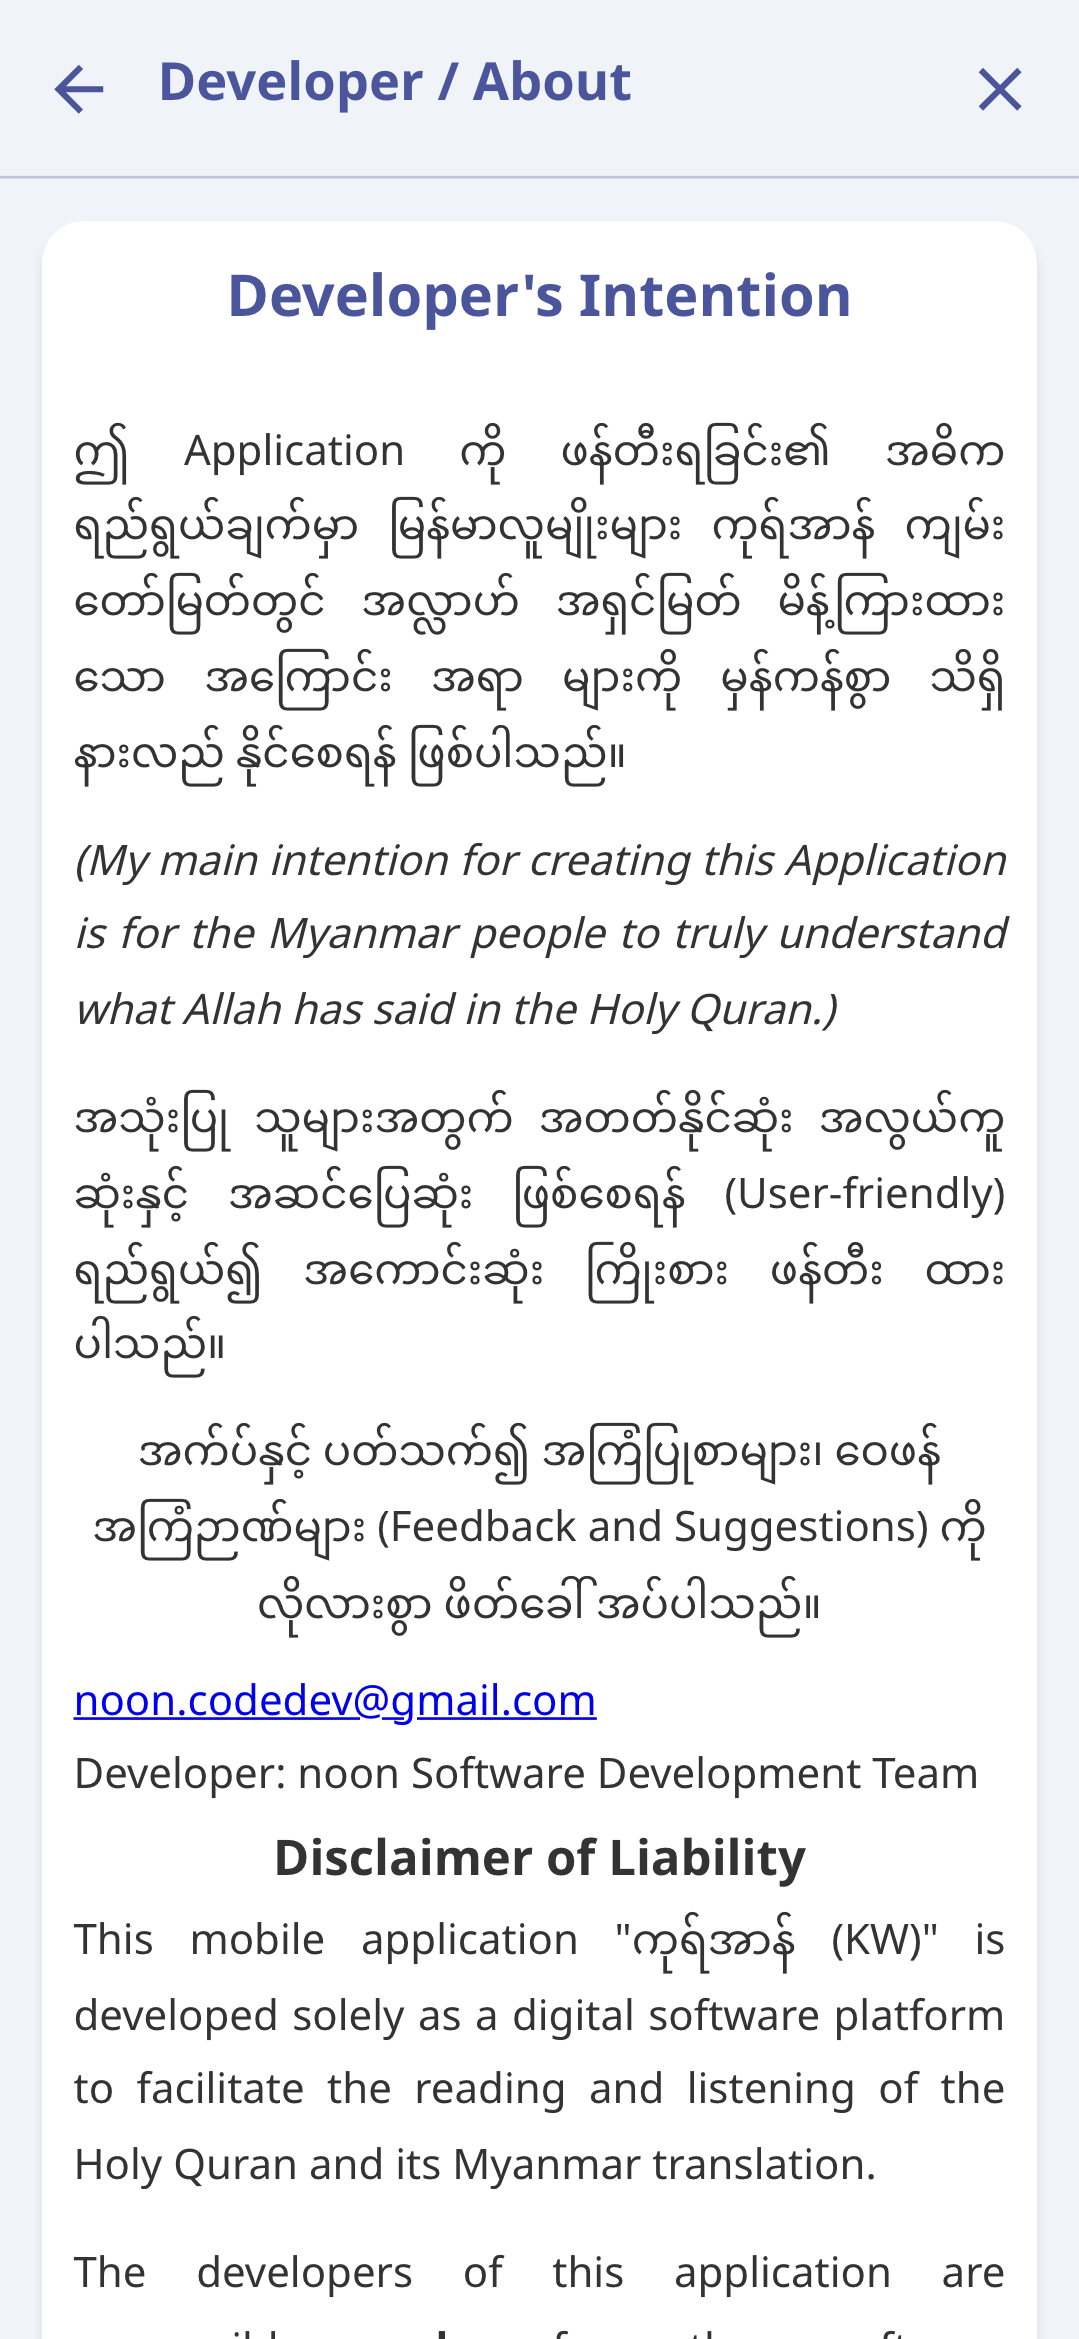
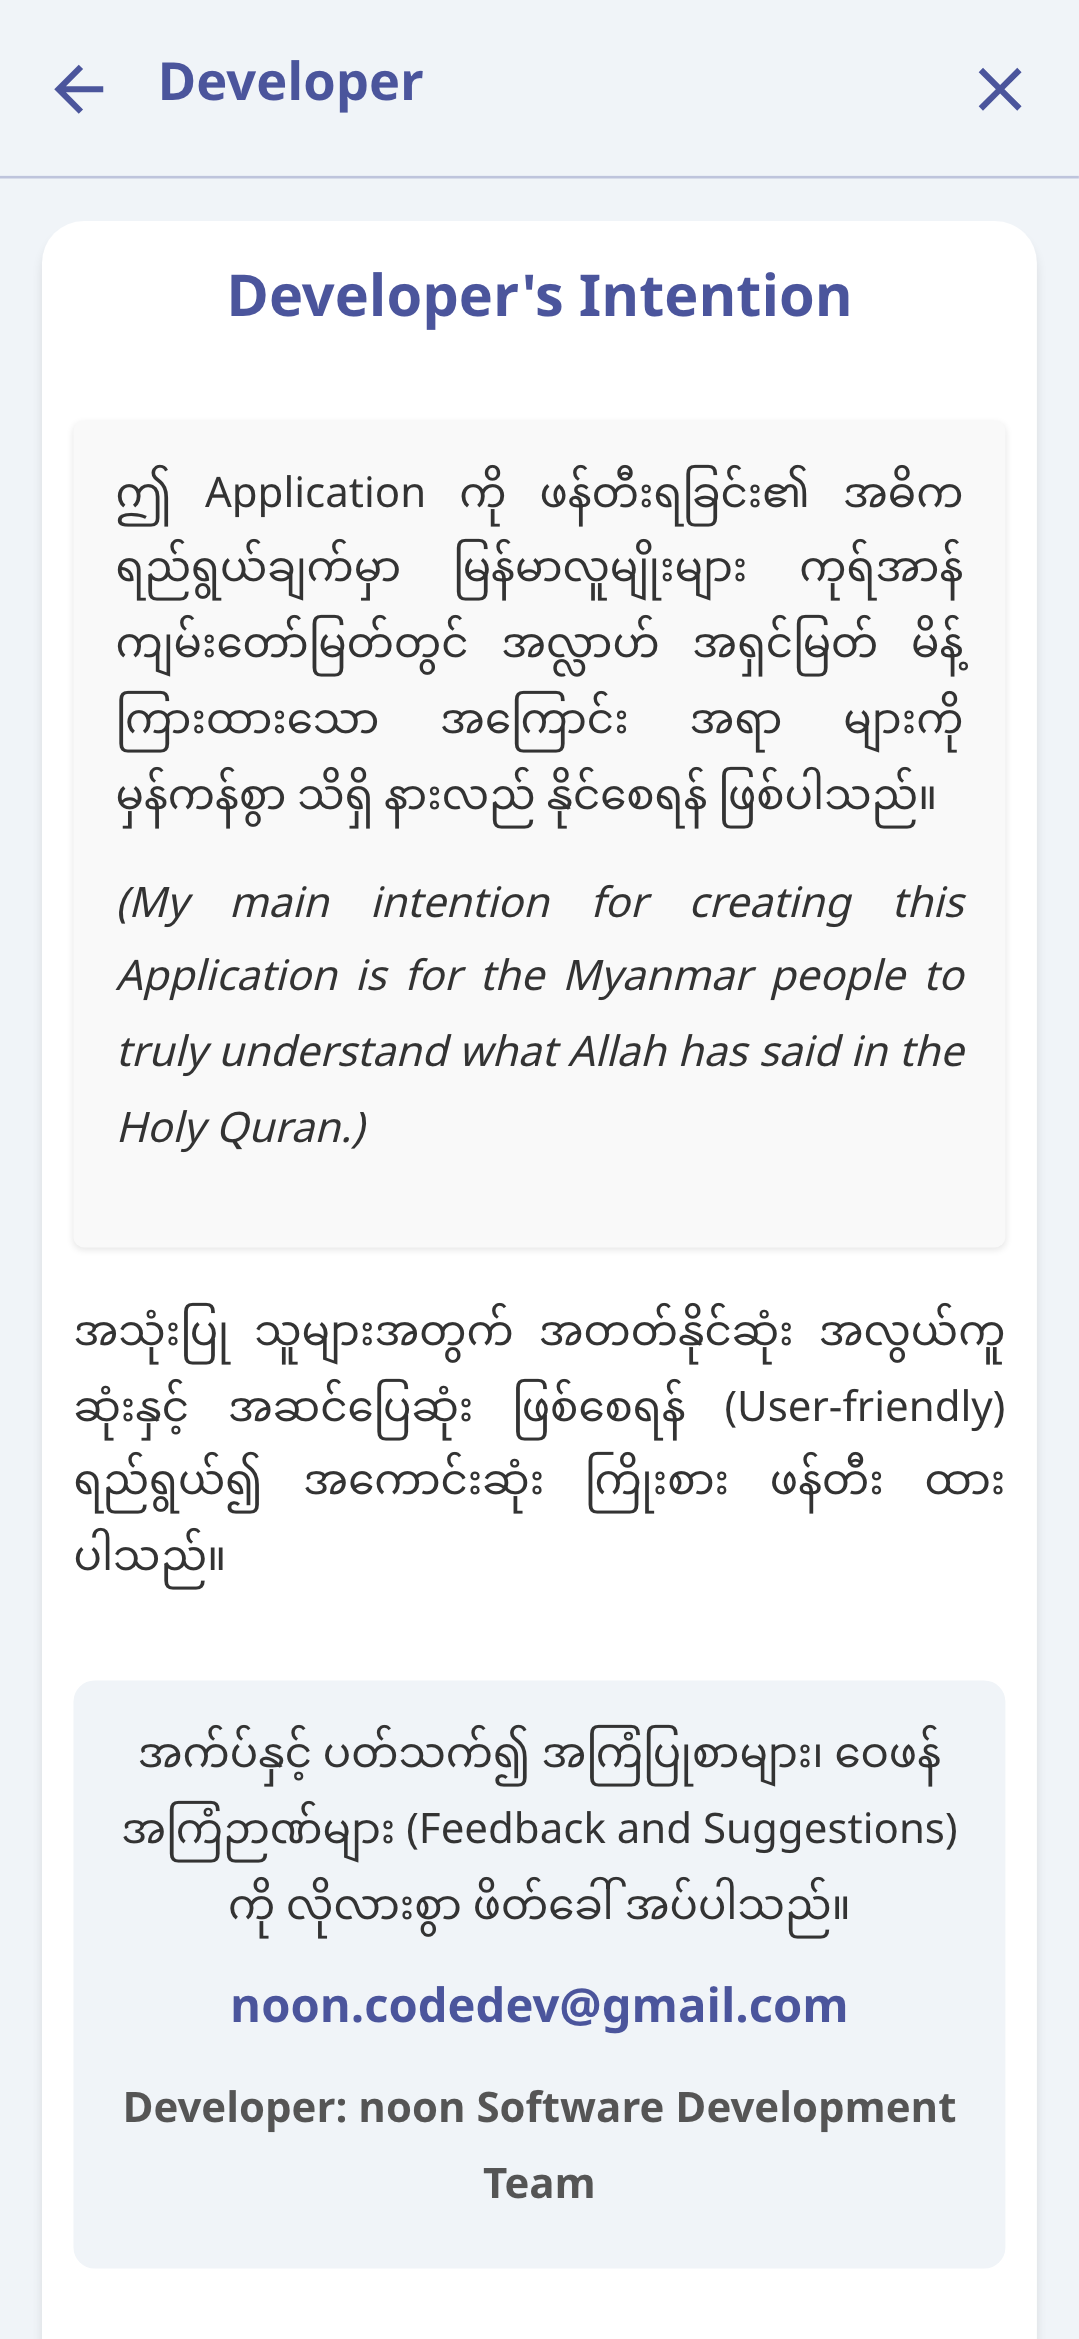
feat(developer): fix title and render 3 sections with backgrounds
Top-bar title was "Developer / About"; native shows just "Developer".

The screen renders developer.html via body.innerHTML, which drops the
file's own <head><style>, so its three sections (Developer's Intention,
Disclaimer of Liability, ရှင်းလင်းချက်) lost their heading colours and
background boxes. Mirror that page's CSS in the module (tokens where
they map): red h3 headings and #F0F4F8 / #f9f9f9 content boxes. The
classes are unique to developer.html, so the other three info pages are
unaffected (all still 0.00% PASS). Regenerated 07-chrome baseline.

diff --git a/pwa/src/features/info-viewer/InfoViewerScreen.module.css b/pwa/src/features/info-viewer/InfoViewerScreen.module.css
@@ -115,3 +115,52 @@
   margin-bottom: 0.5rem;
   font-family: var(--font-ui);
 }
+
+/* developer.html sections — its <head><style> is stripped, so mirror that
+   page's own CSS here (tokens where they map to the fixed HTML colors). */
+.content :global(h3) {
+  color: #c62828; /* developer.html red section heading; no token */
+  font-size: 1.125rem; /* 18px */
+  margin-top: 24px;
+  margin-bottom: 8px;
+  text-align: center;
+  font-family: var(--font-ui);
+}
+
+.content :global(.content-box) {
+  background-color: #f9f9f9; /* near-white section body; no token */
+  padding: 16px;
+  margin-bottom: 20px;
+  border-radius: 4px;
+  box-shadow: 0 1px 3px rgba(0, 0, 0, 0.1);
+}
+
+.content :global(.disclaimer-box) {
+  background-color: var(--color-bg); /* #F0F4F8 */
+  padding: 16px;
+  margin-bottom: 24px;
+  border-radius: 8px;
+}
+
+.content :global(.contact-info) {
+  text-align: center;
+  margin-top: 30px;
+  padding: 16px;
+  background-color: var(--color-bg); /* #F0F4F8 */
+  border-radius: 8px;
+}
+
+.content :global(.email-link) {
+  display: block;
+  margin: 8px 0;
+  color: var(--color-primary);
+  font-weight: 700;
+  font-size: 1.125rem; /* 18px */
+  text-decoration: none;
+}
+
+.content :global(.dev-name) {
+  font-size: 1rem; /* 16px */
+  font-weight: 700;
+  color: #555555;
+}

diff --git a/pwa/src/features/info-viewer/InfoViewerScreen.tsx b/pwa/src/features/info-viewer/InfoViewerScreen.tsx
@@ -8,7 +8,7 @@ const PAGE_TITLES: Record<string, string> = {
   preface: 'Preface',
   introduction: 'Introduction',
   biography: 'Biography',
-  developer: 'Developer / About',
+  developer: 'Developer',
 }
 
 export function InfoViewerScreen() {

diff --git a/docs/spec/info-viewer.md b/docs/spec/info-viewer.md
@@ -14,12 +14,12 @@ Loads `file:///android_asset/<page>.html`. Top-bar title = "Preface" / "Introduc
 - Preface — `Preface (အမှာစာ)` — starts with basmala, ends with Arabic verse block.
 - Introduction — `Introduction (နိဒါန်း)`.
 - Biography — `Biography (ဘာသာပြန်သူ၏ အတ္ထုပ္ပတ္တိအကျဉ်း)`.
-- Developer — `Developer's Intention` (Burmese + italic English paragraphs; ends with a boxed Feedback note).
+- Developer — top-bar title is just **"Developer"**. Three sections, each a title + a background-filled body box: (1) `Developer's Intention` (h2 primary, centered) with a `.content-box` + a `.contact-info` Feedback box (email link); (2) `Disclaimer of Liability` (h3 red `#c62828`, centered) + `.disclaimer-box` (#F0F4F8); (3) `ရှင်းလင်းချက် (Disclaimer)` (h3 red, centered) + `.disclaimer-box`.
 - Files: `preface.html` (~18.7 KB), `introduction.html` (~13.2 KB), `biography.html` (~5.9 KB), `developer.html` (~7.9 KB). All UTF-8, CRLF, Burmese content.
 
 ## Behavior
 - Back arrow / Close both dismiss.
 - PWA: render the HTML inline (fetch from `/data/<page>.html`), styled to match; no WebView needed.
 
-## Open questions
-- Whether each HTML carries its own CSS or inherits app styles — check in port phase.
+## Resolved
+- Each bundled HTML carries its own `<head><style>`. The PWA renders `body.innerHTML` (via DOMParser), which drops that `<style>`, so the section styling is mirrored in `InfoViewerScreen.module.css` with tokens where they map. developer.html uses classes `.content-box`, `.disclaimer-box`, `.contact-info`, `.email-link`, `.dev-name` and red `h3` headings — unique to that page, so the module rules don't affect the other three.
